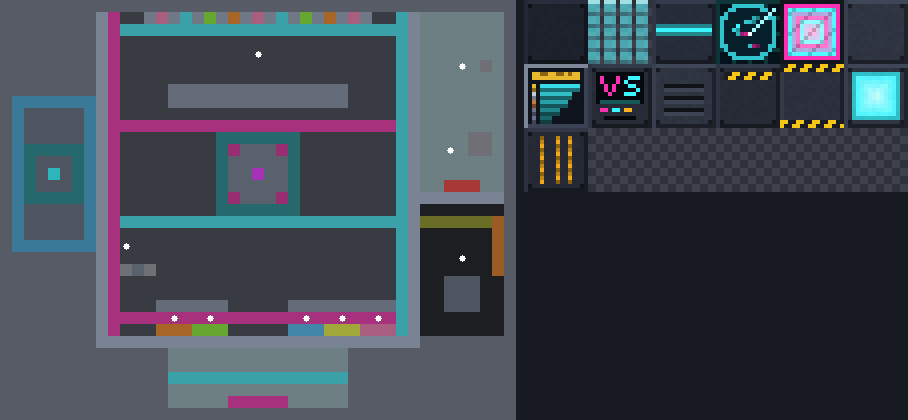
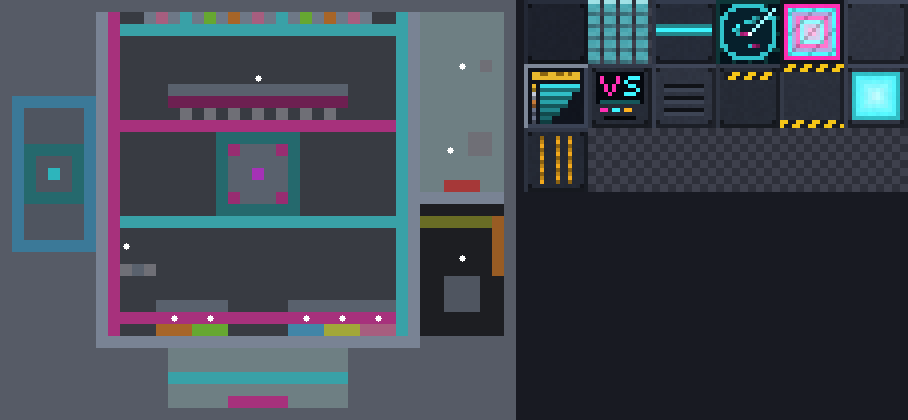
fix(7A): hub counters one block high with figures in reach, firewall in the clinic, no craft-and-sell eddie loops
- art/gen_hub.py: the bar counter is one block high and one deep (z 7) with the bartender at z 6.5 and the stools at z 9; the
  stall counters are one block high. The ripperdoc and medic face the clinic door. layout_problems() now walks the hub from the
  spawn and fails a figure no customer can see within 2.5 blocks from in front of it, across the counter it serves over (26.3's
  entity interaction range is 3.0); a test shows the old two-high counters and the old bartender spot fail it.
- ripperdoc: firewall (megaplan 1.17, Phase 6) joins the schema's implant enum and the Afterlife catalogue (1300, no surgery);
  the catalogue test reads the ids from Cyberware.java and accepts the 1.17 ids before their phase lands.
- shops: bow, iron sword, shield and arrow sell rows now pay less than their bought inputs (4, 12, 6, 4 per 16); the tech shop no
  longer buys repeaters. A test walks one crafting step (the 26.3 recipes, and the mod's own) from shop stock to every sell row.
- npc_role schema: placement lives in the hub layout's figures; hub.area only names their area. A test checks every dialogue
  placeholder is one 7N fills in its context.

Changed region(s): [[0.185, 0.2167, 0.4009, 0.3095]]

diff --git a/art/gen_hub.py b/art/gen_hub.py
@@ -26,6 +26,7 @@ from __future__ import annotations
 
 import io
 import json
+import math
 import random
 import sys
 from pathlib import Path
@@ -310,11 +311,12 @@ STATIONS = {"match_terminal": (21, 2, 14), "holo_table": (4, 1, 14), "exit_porta
 
 
 def figures() -> list[dict]:
+    # each figure faces where its customers come from: the bartender and the vendors over their counters, the clinic pair the clinic door
     out = [
-        {"id": "bartender", "role": "cyberblock:bartender", "area": "bar", "pos": [21.5, 1.0, 4.5], "yaw": 0.0, "gender": "female", "name": "Juno"},
+        {"id": "bartender", "role": "cyberblock:bartender", "area": "bar", "pos": [21.5, 1.0, 6.5], "yaw": 0.0, "gender": "female", "name": "Juno"},
         {"id": "fixer", "role": "cyberblock:fixer", "area": "booths", "pos": [10.5, 1.0, 20.5], "yaw": 270.0, "gender": "male", "name": "Venn"},
-        {"id": "ripperdoc", "role": "cyberblock:ripperdoc", "area": "clinic", "pos": [38.5, 1.0, 5.5], "yaw": 270.0, "gender": "female", "name": "Dr. Vale"},
-        {"id": "medic", "role": "cyberblock:medic", "area": "clinic", "pos": [37.5, 1.0, 12.5], "yaw": 270.0, "gender": "male", "name": "Sorrel"},
+        {"id": "ripperdoc", "role": "cyberblock:ripperdoc", "area": "clinic", "pos": [38.5, 1.0, 5.5], "yaw": 90.0, "gender": "female", "name": "Dr. Vale"},
+        {"id": "medic", "role": "cyberblock:medic", "area": "clinic", "pos": [37.5, 1.0, 12.5], "yaw": 90.0, "gender": "male", "name": "Sorrel"},
         {"id": "mechanic", "role": "cyberblock:mechanic", "area": "garage", "pos": [38.5, 1.0, 21.5], "yaw": 90.0, "gender": "female", "name": "Rook"},
     ]
     for i, (shop, x0, _x1, _dye, name) in enumerate(STALLS):
@@ -347,11 +349,11 @@ def build() -> Layout:
     L.fill((12, 3, 1), (30, 3, 1), MT)  # shelf
     for i, x in enumerate(range(13, 30, 2)):
         L.put((x, 4, 1), neon(("pink", "cyan", "lime", "orange")[i % 4]))  # bottles
-    L.fill((14, 1, 7), (28, 2, 8), CD)  # counter
-    L.fill((14, 2, 7), (28, 2, 8), MT)
-    L.fill((14, 1, 8), (28, 1, 8), neon("magenta"))
+    # the counter is one block high and one deep, so a customer at z 8 sees and reaches the bartender at z 6.5 over it
+    L.fill((14, 1, 7), (28, 1, 7), MT)  # counter
+    L.fill((14, 0, 8), (28, 0, 8), neon("magenta"))  # a glowing strip in the floor along its front
     for x in range(15, 28, 2):
-        L.put((x, 1, 10), "minecraft:polished_blackstone_slab[type=bottom]")  # stools
+        L.put((x, 1, 9), "minecraft:polished_blackstone_slab[type=bottom]")  # stools
     for zc in (18, 22, 26):
         L.fill((9, 1, zc - 1), (9, 3, zc + 1), CD)  # booth back panel
         L.fill((9, 4, zc - 1), (9, 4, zc + 1), neon("pink"))
@@ -367,8 +369,7 @@ def build() -> Layout:
     for pos, _objective, _title in BOARDS:
         L.put(pos, "cyberblock:leaderboard_board[facing=west]")
     for name, x0, x2, dye, _vendor in STALLS:
-        L.fill((x0, 1, 25), (x2, 1, 25), CD)  # stall counter
-        L.fill((x0, 2, 25), (x2, 2, 25), MT)
+        L.fill((x0, 1, 25), (x2, 1, 25), MT)  # stall counter, one block high: the vendor behind it is in reach over it
         L.fill((x0, 4, 27), (x2, 5, 27), neon(dye))  # sign
     L.fill((9, 5, 1), (9, 5, 27), neon("magenta"))  # wall accents
     L.fill((33, 5, 1), (33, 5, 27), neon("cyan"))
@@ -421,9 +422,71 @@ def layout_document() -> dict:
     }
 
 
+REACH = 2.5  # blocks from a customer's eye to a figure's hitbox: Minecraft 26.3's entity interaction range is 3.0, less a margin
+EYE, HALF_WIDTH = 1.62, 0.3  # a standing player's eye height; half the width of a figure's 0.6 x 1.8 hitbox (the hub NPC)
+COUNTER = 3  # a solid block at foot level this many blocks or fewer in front of a figure, with room above it, is the counter it serves over
+
+
+def standable(L: Layout, cell: Cell) -> bool:
+    x, y, z = cell
+    return not passable(L.block((x, y - 1, z))) and passable(L.block(cell)) and passable(L.block((x, y + 1, z)))
+
+
+def walkable_cells(L: Layout, start: Cell, size: list[int]) -> set[Cell]:
+    """Every cell a player can walk to from start: four-way steps that stay level, drop one block or climb one (with head room for the jump)."""
+    seen, todo = {start}, [start]
+    while todo:
+        x, y, z = todo.pop()
+        for dx, dz in ((1, 0), (-1, 0), (0, 1), (0, -1)):
+            for dy in (0, -1, 1):
+                nxt = (x + dx, y + dy, z + dz)
+                if nxt in seen or not all(0 <= c < lim for c, lim in zip(nxt, size)) or not standable(L, nxt):
+                    continue
+                if dy == 1 and not passable(L.block((x, y + 2, z))):
+                    continue
+                seen.add(nxt)
+                todo.append(nxt)
+    return seen
+
+
+def clear_line(L: Layout, a: tuple[float, float, float], b: tuple[float, float, float]) -> bool:
+    """Whether the straight line from a to b crosses only passable cells (sampled every 1/20 block)."""
+    steps = max(1, int(max(abs(b[i] - a[i]) for i in range(3)) * 20))
+    for n in range(steps + 1):
+        p = [a[i] + (b[i] - a[i]) * n / steps for i in range(3)]
+        if not passable(L.block((int(p[0] // 1), int(p[1] // 1), int(p[2] // 1)))):
+            return False
+    return True
+
+
+def in_reach(L: Layout, fig: list[float], yaw: float, walkable: set[Cell]) -> bool:
+    """Whether a customer can use the figure: standing on a walkable cell in front of it (the side its yaw faces), beyond the counter it
+    serves over when a solid block stands up to COUNTER blocks ahead of it at foot level, he sees a point of its body within REACH of his
+    eye. A layout where the only way to a figure is round the side of its counter fails."""
+    fx, fy, fz = fig
+    ahead = (-math.sin(math.radians(yaw)), math.cos(math.radians(yaw)))  # Minecraft yaw: 0 faces south (+z), 90 west (-x)
+    def cell_ahead(s: int, dy: int) -> Cell:
+        return int((fx + ahead[0] * s) // 1), int(fy // 1) + dy, int((fz + ahead[1] * s) // 1)
+
+    counter = next((s for s in range(1, COUNTER + 1) if not passable(L.block(cell_ahead(s, 0)))), 0)
+    if counter and not any(passable(L.block(cell_ahead(counter, dy))) for dy in (1, 2)):
+        counter = 0  # a wall, not a counter: the customers stand between the figure and it
+    targets = [(fx, fy + h, fz) for h in (1.6, 1.3, 1.0)]  # head, chest and waist on the figure's axis
+    for cell in walkable:
+        front = (cell[0] + 0.5 - fx) * ahead[0] + (cell[2] + 0.5 - fz) * ahead[1]
+        if front < max(0.5, counter + 0.5):
+            continue
+        eye = (cell[0] + 0.5, cell[1] + EYE, cell[2] + 0.5)
+        for t in targets:
+            if sum((eye[i] - t[i]) ** 2 for i in range(3)) ** 0.5 - HALF_WIDTH <= REACH and clear_line(L, eye, t):
+                return True
+    return False
+
+
 def layout_problems(doc: dict) -> list[str]:
-    """Everything wrong with a layout document: cells outside the size, figures that do not stand on floor with air above, stations that are
-    not the block they claim, areas that leave the size, a spawn inside a block. An empty list is a good layout."""
+    """Everything wrong with a layout document: cells outside the size, figures that do not stand on floor with air above, figures no player
+    can reach and see from a cell he can walk to from the spawn, stations that are not the block they claim, areas that leave the size, a
+    spawn inside a block. An empty list is a good layout."""
     L = Layout()
     problems: list[str] = []
     w, h, d = doc["size"]
@@ -443,8 +506,12 @@ def layout_problems(doc: dict) -> list[str]:
             problems.append(f"{what} at {pos} is inside a block")
 
     stands(doc["spawn"]["pos"], "the spawn")
+    spawn = tuple(int(v // 1) for v in doc["spawn"]["pos"])
+    walkable = walkable_cells(L, spawn, doc["size"]) if standable(L, spawn) else set()
     for fig in doc["figures"]:
         stands(fig["pos"], f"figure {fig['id']}")
+        if not in_reach(L, fig["pos"], fig.get("yaw", 0.0), walkable):
+            problems.append(f"figure {fig['id']} at {fig['pos']} is out of reach: no walkable cell sees it within {REACH} blocks")
         area = doc["areas"].get(fig["area"])
         if area is None or not all(area["from"][i] <= int(fig["pos"][i] // 1) <= area["to"][i] for i in range(3)):
             problems.append(f"figure {fig['id']} is not inside its area {fig['area']}")

diff --git a/tests/test_phase7_data.py b/tests/test_phase7_data.py
@@ -16,6 +16,13 @@ ROLES = ["bartender", "fixer", "mechanic", "medic", "ripperdoc", "vendor"]
 TOKENS = {"player", "item", "price", "title", "reward", "implant", "drink"}
 NEEDS = {"shop": ["purchase", "sale", "no_funds"], "contracts": ["gig_offer", "gig_done"], "bartender": ["rumour", "drink", "no_funds"],
          "ripperdoc": ["installed", "surgery_ok", "surgery_fail", "no_funds"], "medic": ["healed", "no_funds"], "mechanic": ["repaired", "no_funds"]}
+APPENDED_1_17 = {"firewall", "netrunner"}  # megaplan 1.17: cyberware ids appended by Phases 6 and 8
+# the placeholders 7N fills in each context ({player} always): a line may only use those of the screen that says it
+FILLED = {"gig_offer": {"title", "reward"}, "gig_done": {"title", "reward"}, "purchase": {"item", "price"}, "sale": {"item", "price"},
+          "repaired": {"item", "price"}, "drink": {"drink", "price"}, "installed": {"implant", "price"}, "surgery_ok": {"implant"},
+          "surgery_fail": {"implant"}, "healed": {"price"}}
+NO_FUNDS = {"shop": {"item", "price"}, "mechanic": {"item", "price"}, "bartender": {"drink", "price"}, "ripperdoc": {"implant", "price"},
+            "medic": {"price"}}
 GAME_SLANG = ("choom", "preem", "gonk", "nova", "wakako", "silverhand", "samurai", "braindance")  # words of the game's own text: ours is original
 
 
@@ -100,6 +107,16 @@ def test_dialogue_has_every_context_its_screen_uses_and_only_known_placeholders(
         assert len(entries("dialogue")["bartender"]["lines"][ctx]) >= 10
 
 
+def test_every_placeholder_is_one_its_context_fills():
+    roles = entries("npc_role")
+    for name, doc in entries("dialogue").items():
+        screen = roles[name]["screen"]
+        for ctx, texts in doc["lines"].items():
+            filled = {"player"} | (NO_FUNDS[screen] if ctx == "no_funds" else FILLED.get(ctx, set()))
+            for line in texts:
+                assert set(re.findall(r"\{(\w+)\}", line)) <= filled, (name, ctx, line, filled)
+
+
 def test_contracts_cover_every_type_and_refer_to_what_exists(lang):
     contracts, landmarks = entries("contract"), entries("landmark")
     factions = set()
@@ -133,10 +150,16 @@ def test_contracts_cover_every_type_and_refer_to_what_exists(lang):
 def test_the_catalogue_lists_every_cyberware_id_once_with_riskier_surgery_for_dearer_implants():
     source = (ROOT / "mc" / "src" / "main" / "java" / "dev" / "cyberblock" / "cyber" / "Cyberware.java").read_text("utf-8")
     ids = [m.lower() for m in re.findall(r"^\t([A-Z_]+)\(CyberSlot\.", source, re.M)]
-    assert len(ids) == 17
+    assert 17 <= len(ids) <= 32  # the 17 of retest2, then the ids megaplan 1.17 appends
+    schema = read(ROOT / "shared" / "content-schemas" / "ripperdoc.schema.json")
+    allowed = schema["properties"]["implants"]["items"]["properties"]["implant"]["enum"]
+    assert set(ids) <= set(allowed), set(ids) - set(allowed)
+    appended = set(allowed) - set(ids)
+    assert appended <= APPENDED_1_17, appended  # only a 1.17 id may be in the schema before its phase's Cyberware lands
     catalogue = entries("ripperdoc")["afterlife"]
     listed = [e["implant"] for e in catalogue["implants"]]
-    assert sorted(listed) == sorted(ids) and len(listed) == len(set(listed))
+    assert len(listed) == len(set(listed))
+    assert set(ids) <= set(listed) <= set(allowed), (set(ids) - set(listed), set(listed) - set(allowed))
     with_surgery = [e for e in catalogue["implants"] if "surgery" in e]
     without = [e for e in catalogue["implants"] if "surgery" not in e]
     assert with_surgery and without
@@ -163,6 +186,64 @@ def test_shops_sell_known_items_and_never_buy_dearer_than_they_sell(lang):
     for item, prices in sell.items():
         if item in buy:
             assert max(prices) < min(buy[item]), f"{item}: sells for {max(prices)} per piece but is bought for {min(buy[item])}"
+
+
+# One crafting step from shop stock to a sell row (the Minecraft 26.3 recipes, read from its jar; redstone torches counted as their redstone
+# and stick): {sold item: ({ingredient: count}, items made)}. FREE are the renewable materials that cost no eddies (wood, stone, coal,
+# feathers): a recipe with a bought ingredient and only free ones besides is an eddie loop unless the sell price is below the bought part.
+RECIPES = {
+    "minecraft:iron_sword": ({"minecraft:iron_ingot": 2, "minecraft:stick": 1}, 1),
+    "minecraft:bow": ({"minecraft:string": 3, "minecraft:stick": 3}, 1),
+    "minecraft:shield": ({"minecraft:iron_ingot": 1, "minecraft:oak_planks": 6}, 1),
+    "minecraft:arrow": ({"minecraft:flint": 1, "minecraft:stick": 1, "minecraft:feather": 1}, 4),
+    "minecraft:compass": ({"minecraft:iron_ingot": 4, "minecraft:redstone": 1}, 1),
+    "minecraft:clock": ({"minecraft:gold_ingot": 4, "minecraft:redstone": 1}, 1),
+    "minecraft:torch": ({"minecraft:coal": 1, "minecraft:stick": 1}, 4),
+    "minecraft:repeater": ({"minecraft:redstone": 3, "minecraft:stick": 2, "minecraft:stone": 3}, 1),
+    "minecraft:comparator": ({"minecraft:redstone": 3, "minecraft:stick": 3, "minecraft:quartz": 1, "minecraft:stone": 3}, 1),
+}
+FREE = {"minecraft:stick", "minecraft:oak_planks", "minecraft:feather", "minecraft:stone", "minecraft:coal"}
+# sell rows no recipe makes from shop stock: drops and raw materials (a new sell row must be listed here or in RECIPES)
+UNCRAFTED = {"minecraft:" + i for i in ("rotten_flesh", "bone", "string", "gunpowder", "spider_eye", "ink_sac", "iron_ingot", "gold_ingot",
+                                        "redstone", "emerald", "diamond", "ender_pearl", "wheat", "potato", "carrot")}
+
+
+def mod_recipe(item: str) -> tuple[dict[str, int], int] | None:
+    """A cyberblock item's own crafting recipe as ({ingredient: count}, items made); None when it has none."""
+    path = RES / "data" / "cyberblock" / "recipe" / f"{item.removeprefix('cyberblock:')}.json"
+    if not path.is_file():
+        return None
+    doc, need = read(path), {}
+    if "ingredients" in doc:
+        names = doc["ingredients"]
+    else:
+        names = [doc["key"][ch] for row in doc["pattern"] for ch in row if ch != " "]
+    for name in names:
+        name = name if isinstance(name, str) else name[0]
+        need[name] = need.get(name, 0) + 1
+    return need, doc["result"].get("count", 1)
+
+
+def test_no_sell_row_pays_more_than_the_bought_inputs_of_its_recipe():
+    buy, sells = {}, []
+    for name, shop in entries("shop").items():
+        for row in shop["stock"]:
+            buy[row["item"]] = min(buy.get(row["item"], 1e9), row["price"] / row["count"])
+        sells += [(name, row) for row in shop.get("sell", [])]
+    assert sells
+    for shop, row in sells:
+        item = row["item"]
+        recipe = RECIPES.get(item) or (mod_recipe(item) if item.startswith("cyberblock:") else None)
+        if recipe is None:
+            assert item in UNCRAFTED or item.startswith("cyberblock:"), f"{shop} buys {item}: add its recipe to RECIPES or it to UNCRAFTED"
+            continue
+        need, made = recipe
+        bought = {i: n for i, n in need.items() if i in buy}
+        if not bought or set(need) - set(bought) - FREE:
+            continue  # nothing in it is bought, or it needs a gathered material the shops do not sell: not an eddie loop
+        cost = sum(buy[i] * n for i, n in bought.items()) / made
+        each = row["price"] / row["count"]
+        assert each < cost, f"{shop} buys {item} for {each:.2f} each, but its bought inputs cost only {cost:.2f}"
 
 
 def test_landmarks_are_unique_named_places_in_known_districts_and_marked_approximate(lang):

diff --git a/tests/test_gen_hub.py b/tests/test_gen_hub.py
@@ -155,6 +155,20 @@ def test_figures_and_the_spawn_stand_on_floor_with_head_room(hub, layout):
     assert any("figure bartender" in p for p in problems) and any("figure fixer" in p for p in problems)
 
 
+def test_every_figure_is_in_reach_over_its_counter_and_the_checker_catches_one_that_is_not(hub, layout):
+    assert not any("out of reach" in p for p in hub.layout_problems(layout))
+    taller = json.loads(json.dumps(layout))
+    taller["steps"].append({"from": [14, 2, 7], "to": [28, 2, 7], "block": "cyberblock:nc_metal"})  # a bar counter two blocks high
+    taller["steps"].append({"from": [13, 2, 25], "to": [15, 2, 25], "block": "cyberblock:nc_metal"})  # and the arms stall's
+    problems = hub.layout_problems(taller)
+    assert any("figure bartender" in p and "out of reach" in p for p in problems), problems
+    assert any("figure vendor_arms" in p and "out of reach" in p for p in problems), problems
+    assert not any("figure vendor_gear" in p for p in problems), problems
+    far = json.loads(json.dumps(layout))
+    far["figures"][0]["pos"] = [21.5, 1.0, 4.5]  # at the back bar: across the counter but beyond reach
+    assert any("figure bartender" in p and "out of reach" in p for p in hub.layout_problems(far))
+
+
 def test_the_layout_checker_catches_a_station_that_is_not_its_block(hub, layout):
     broken = json.loads(json.dumps(layout))
     broken["stations"]["holo_table"] = [4, 1, 15]
